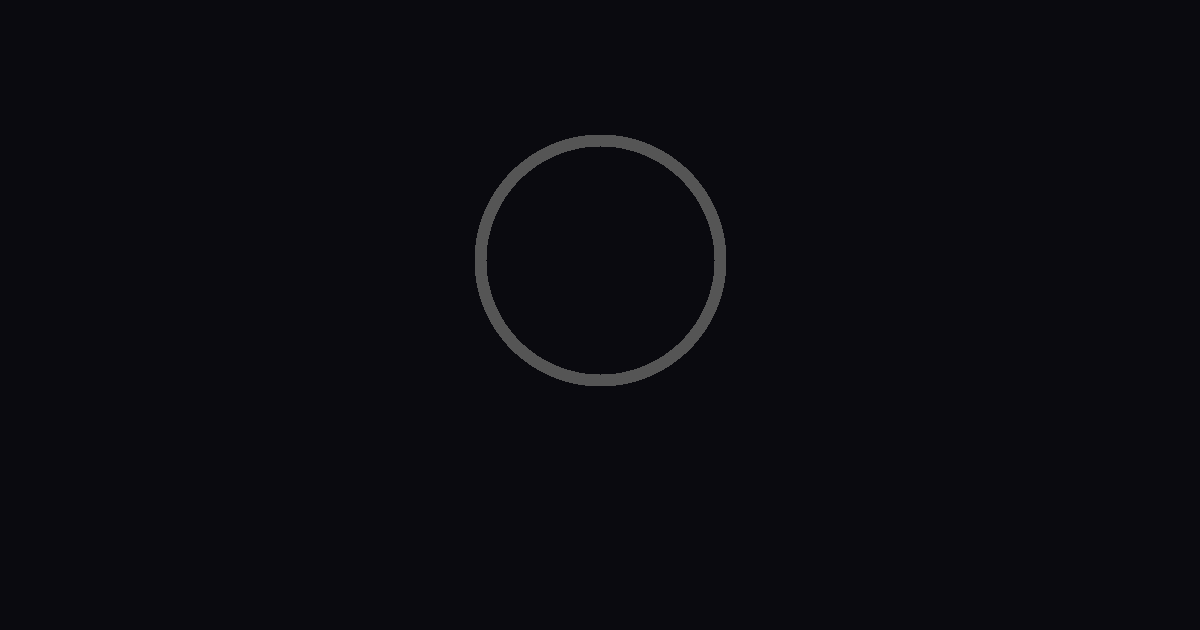
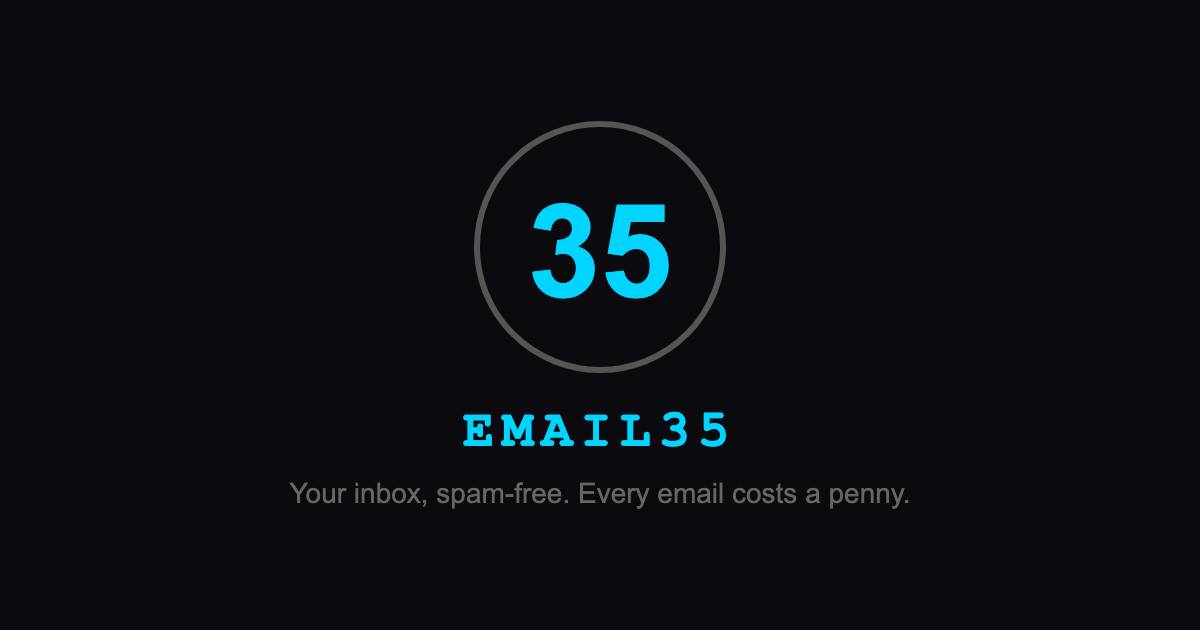
OG image as PNG for link previews (SVG not supported by most platforms)

Changed region(s): [[0.37, 0.181, 0.6167, 0.7238], [0.2467, 0.754, 0.7708, 0.8143]]

diff --git a/index.html b/index.html
@@ -7,7 +7,7 @@
 <link rel="icon" type="image/svg+xml" href="/favicon.svg">
 <meta property="og:title" content="Email35 — Your inbox, spam-free.">
 <meta property="og:description" content="Get an @email35.com address. Senders pay $0.01 to reach you. Spam becomes impossible.">
-<meta property="og:image" content="https://email35.com/og-image.svg">
+<meta property="og:image" content="https://email35.com/og-image.png">
 <meta property="og:image:width" content="1200">
 <meta property="og:image:height" content="630">
 <meta property="og:url" content="https://email35.com">
@@ -15,7 +15,7 @@
 <meta name="twitter:card" content="summary_large_image">
 <meta name="twitter:title" content="Email35 — Your inbox, spam-free.">
 <meta name="twitter:description" content="Get an @email35.com address. Senders pay $0.01 to reach you. Spam becomes impossible.">
-<meta name="twitter:image" content="https://email35.com/og-image.svg">
+<meta name="twitter:image" content="https://email35.com/og-image.png">
 <meta name="description" content="Email35 — Get a spam-free email address. Senders pay $0.01 to reach you. Paid emails forward to your real inbox.">
 <style>
 *,*::before,*::after{margin:0;padding:0;box-sizing:border-box}
